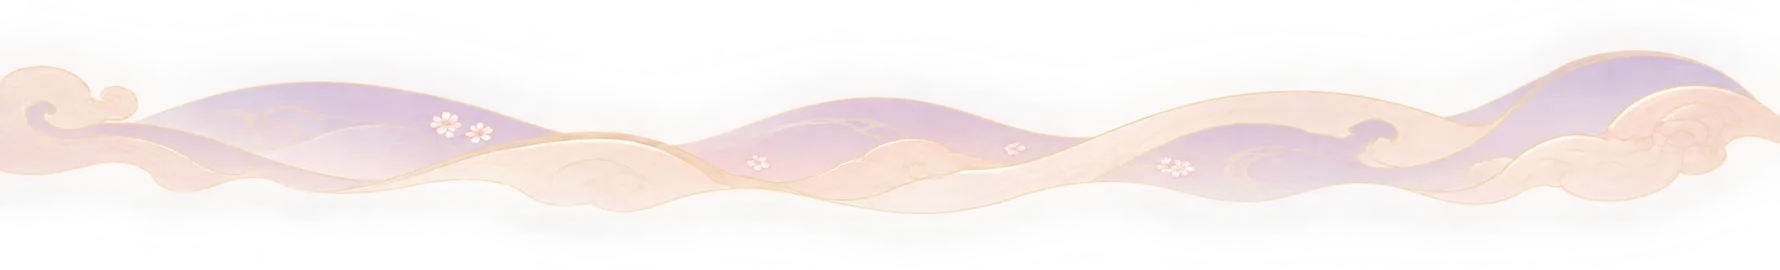
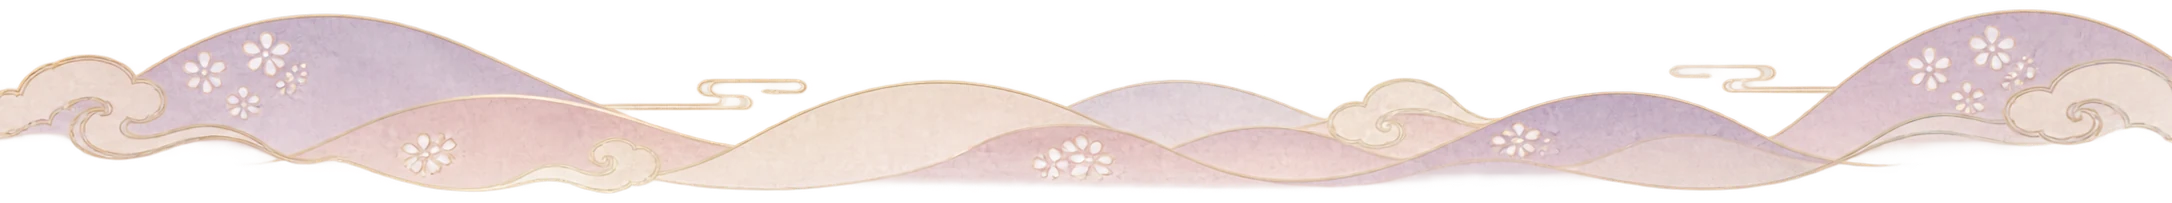
art: replace ribbon clouds with approved shadow-puppet paper-cut layers

diff --git a/README.md b/README.md
@@ -5,9 +5,9 @@ A scroll-driven, original 2D shadow-puppet storytelling website about humanity's
 ## Live site
 When GitHub Pages is enabled, visit https://easylearnfromtw.github.io/Fatboynowadays/
 
-## Current stage · v0.3
+## Current stage · v0.4
 - **Act I:** no window or desk; layered historical scene and gentle looping character movements.
-- **Act II:** the camera keeps pulling back through three approved lavender/pink/gold decorative ribbon-cloud assets (back, mid, front), each with independent scroll-driven parallax.
+- **Act II:** the camera keeps pulling back through three newly approved paper-cut shadow-theatre ribbon cloud assets (back, mid, front), each with independent scroll-driven parallax.
 - **Act III:** the camera keeps pulling back; the theatre window, lanterns, and tabletop enter only at the end.
 - Native vertical scrolling controls one continuous outward camera pullback across all three acts: drag/scroll forward or backward; no GIF frame stepping, reverse zoom or mandatory autoplay.
 - Responsive mobile-first layout, no frameworks, no external fonts, no backend, and no build process.
@@ -31,3 +31,10 @@ Animated scenes rely on requestAnimationFrame, passive scroll listeners, SVG and
 
 ## Art direction
 Scene and character artwork are iterated one by one after review. The original stage illustration and decorative cloud layers have been approved. Character rigging and remaining chapters are planned for future approval. Historical claims will be fact-checked and sourced before the full timeline is published.
+
+## Approved cloud assets (v0.4)
+- `assets/cloud-back.webp`: pale gold-lined cut-paper distant cloud band, derived from 淡雅金边云山皮影装饰带
+- `assets/cloud-mid.webp`: layered pink-lilac traditional ruyi paper-cut ribbon, derived from 霓彩如意云纹剪纸长带
+- `assets/cloud-front.webp`: elaborate gold-edged paper-cut foreground cloud, derived from 華麗金邊雲山剪紙長卷
+
+The original painted stage remains unchanged. These are real transparent WebP image layers rather than mist/fog or GIF frames. Cloud movements track scroll progress and reverse when scrolling upward. The cloud imagery is decorative; historically accurate shadow-puppet character articulation will be developed separately.
